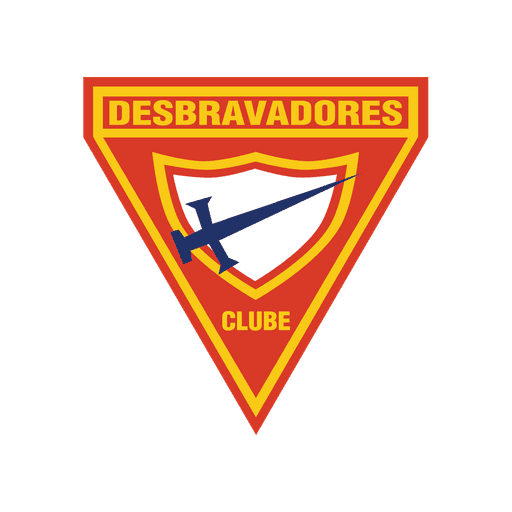
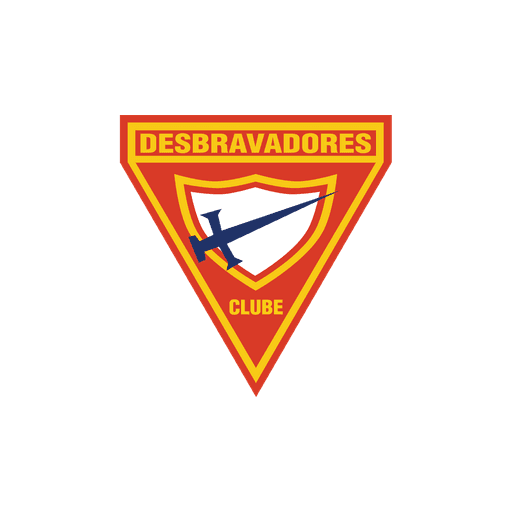
fix(marca): o ícone adaptável do Android não corta as pontas do emblema
No Android o ícone instalado é recortado num círculo de 80% do quadrado; com a margem padrão do
gerador, as duas pontas de cima do triângulo passavam até 43 px desse círculo e saíam cortadas em
aparelhos de ícone redondo. Com 45% de margem só no ícone adaptável, nenhum pixel do emblema fica
fora (medido no PNG gerado). De passagem, sai a opção de tamanho grande do componente de marca, que
nada usava.

Claude-Session: https://claude.ai/code/session_013JBvVBpH7XVXZeLbh68rcm

Changed region(s): [[0.1562, 0.125, 0.8438, 0.8438]]

diff --git a/apps/web/src/ui/Marca.tsx b/apps/web/src/ui/Marca.tsx
@@ -2,33 +2,17 @@ import { NOME_SISTEMA } from '@desbravadores/shared'
 import { cn } from './cn'
 
 interface Propriedades {
-  /** `sm`: cabeçalhos; `lg`: telas de acesso. */
-  tamanho?: 'sm' | 'lg'
   /** Classes do nome, para escondê-lo onde não cabe (o emblema fica). O nome quebra linha em vez de ser cortado. */
   classeDoNome?: string
   className?: string
 }
 
-/** Emblema oficial dos Desbravadores ao lado do nome do app; o nome vem de `NOME_SISTEMA`. */
-export function Marca({ tamanho = 'sm', classeDoNome, className }: Propriedades) {
+/** Emblema oficial dos Desbravadores ao lado do nome do app, nos cabeçalhos; o nome vem de `NOME_SISTEMA`. */
+export function Marca({ classeDoNome, className }: Propriedades) {
   return (
-    <span
-      className={cn('flex min-w-0 items-center', tamanho === 'lg' ? 'gap-3' : 'gap-2', className)}
-    >
-      <img
-        src="/emblema.png"
-        alt="Emblema dos Desbravadores"
-        className={cn('w-auto shrink-0', tamanho === 'lg' ? 'h-16' : 'h-8')}
-      />
-      <span
-        className={cn(
-          'font-titulo leading-tight font-bold',
-          tamanho === 'lg' ? 'text-2xl' : 'text-lg',
-          classeDoNome,
-        )}
-      >
-        {NOME_SISTEMA}
-      </span>
+    <span className={cn('flex min-w-0 items-center gap-2', className)}>
+      <img src="/emblema.png" alt="Emblema dos Desbravadores" className="h-8 w-auto shrink-0" />
+      <span className={cn('font-titulo text-lg leading-tight font-bold', classeDoNome)}>{NOME_SISTEMA}</span>
     </span>
   )
 }
